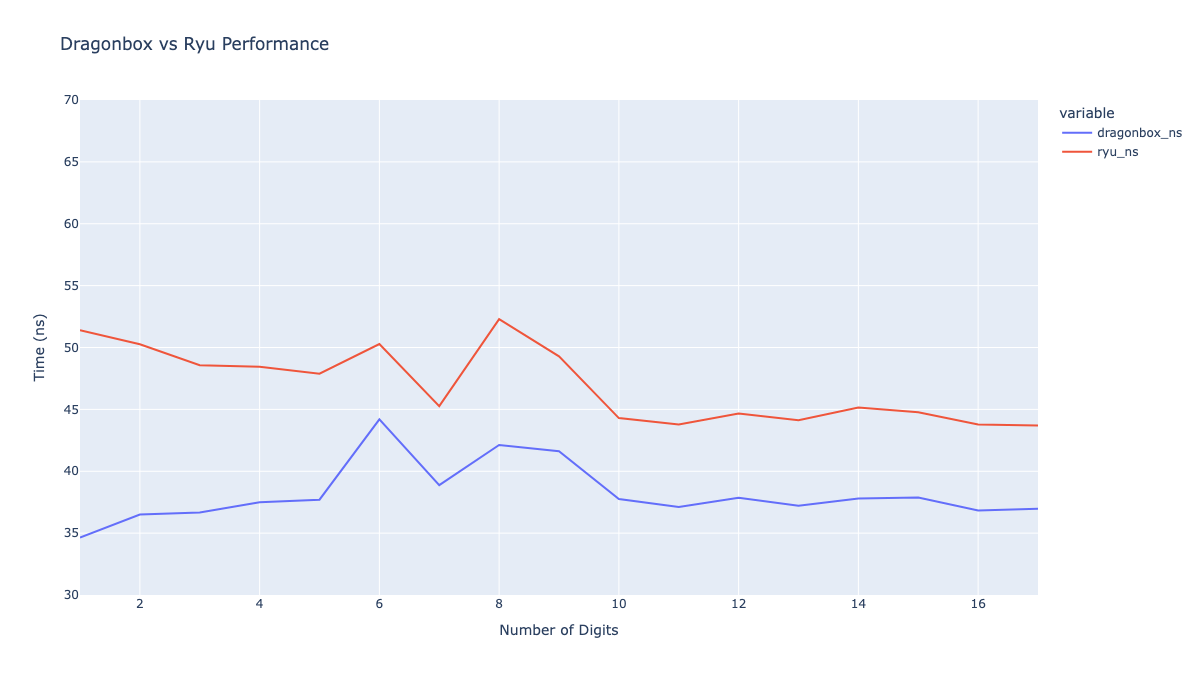
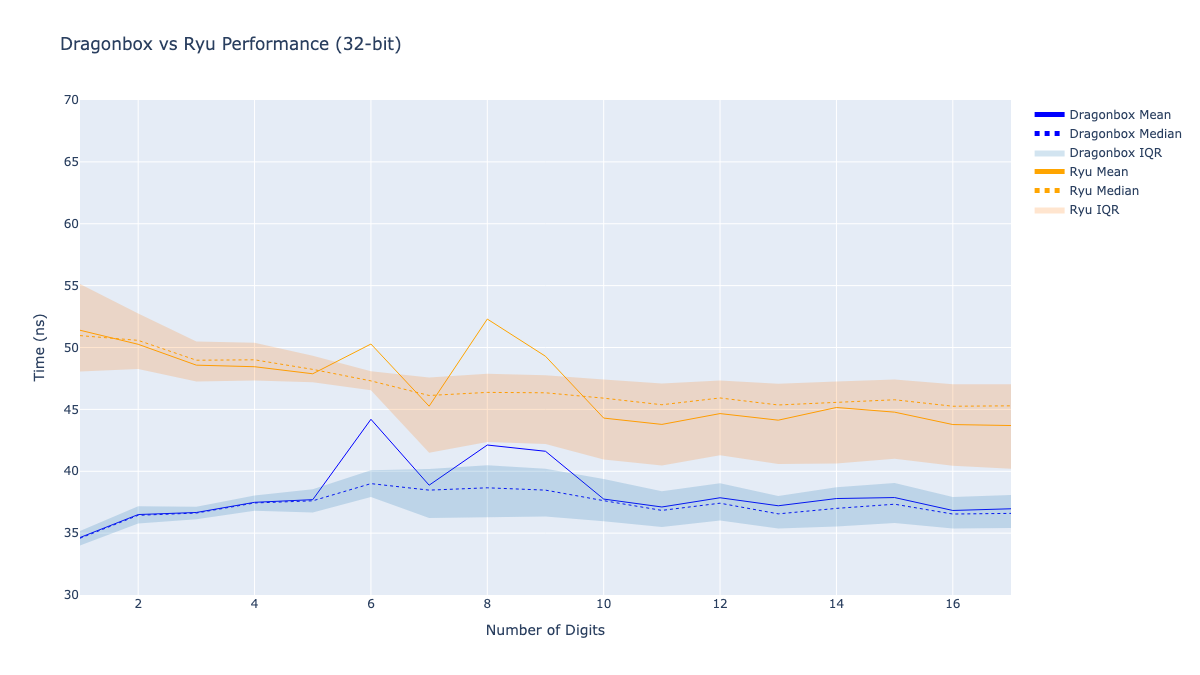
Add median and IQR

diff --git a/src/bench/plot.py b/src/bench/plot.py
@@ -1,39 +1,129 @@
-import sys
-
 import pandas as pd
-import plotly.express as px
+import plotly.graph_objects as go
 
 for bit_size in [32, 64]:
-    csv_file = f"random_bits{bit_size}.csv" 
+    csv_file = f"random_bits{bit_size}.csv"
     output_file = f"random_bits{bit_size}.png"
+    columns = ["bits", "dragonbox_ns", "ryu_ns"]
 
     df = pd.read_csv(csv_file)
-    fig = px.scatter(
-        df,
-        x="bits",
-        y=["dragonbox_ns", "ryu_ns"],
-        labels={"value": "Time (ns)", "bits": "Bit Patterns"},
-        title="Dragonbox vs Ryu Performance"
+
+    fig = go.Figure()
+    fig.add_trace(go.Scatter(
+        x=df["bits"],
+        y=df["dragonbox_ns"],
+        mode='markers',
+        marker=dict(size=1, opacity=0.5),
+        name="Dragonbox",
+    ))
+    fig.add_trace(go.Scatter(
+        x=df["bits"],
+        y=df["ryu_ns"],
+        mode='markers',
+        marker=dict(size=1, opacity=0.5),
+        name="Ryu",
+    ))
+
+    mean = df.mean()
+    median = df.median()
+    std = df.std()
+
+    text = ""
+    text += "dragonbox:<br>"
+    text += f"mean={mean['dragonbox_ns']:.2f} median={median['dragonbox_ns']:.2f} std={std['dragonbox_ns']:.2f}"
+    text += "<br>"
+    text += "ryu:<br>"
+    text += f"mean={mean['ryu_ns']:.2f} median={median['ryu_ns']:.2f} std={std['ryu_ns']:.2f}"
+
+    fig.add_annotation(
+        text=text,
+        x=0.01, y=0.99, # top left
+        xref="paper", yref="paper",
+        showarrow=False,
+        align="left",
+        font=dict(size=11),
+        bordercolor="black",
+        borderwidth=1,
+        borderpad=6,
+        bgcolor="white",
     )
 
-    fig.update_traces(marker=dict(size=1, opacity=0.5))
-    fig.update_yaxes(range=[30, 70])
+    fig.update_layout(
+        title=f"Dragonbox vs Ryu Performance ({bit_size}-bit)",
+        xaxis_title="Bit Patterns",
+        yaxis_title="Time (ns)",
+        legend=dict(itemsizing="constant"),
+        yaxis=dict(range=[30, 70])
+    )
     fig.write_image(output_file, width=1200, height=675)
 
 for bit_size in [32, 64]:
-    csv_file = f"random_digits{bit_size}.csv" 
+    csv_file = f"random_digits{bit_size}.csv"
     output_file = f"random_digits{bit_size}.png"
 
     df = pd.read_csv(csv_file)
-    df = df.groupby("digits").mean().reset_index()
-    fig = px.line(
-        df,
-        x="digits",
-        y=["dragonbox_ns", "ryu_ns"],
-        labels={"value": "Time (ns)", "digits": "Number of Digits"},
-        title="Dragonbox vs Ryu Performance"
-    )
 
-    fig.update_traces(line=dict(width=2))
-    fig.update_yaxes(range=[30, 70])
+    mean = df.groupby("digits").mean().reset_index()
+    median = df.groupby("digits").median().reset_index()
+    q25 = df.groupby("digits").quantile(0.25).reset_index()
+    q75 = df.groupby("digits").quantile(0.75).reset_index()
+
+    fig = go.Figure()
+    fig.add_trace(go.Scatter(
+        x=mean["digits"],
+        y=mean["dragonbox_ns"],
+        mode="lines",
+        name="Dragonbox Mean",
+        line=dict(color="blue", width=1),
+    ))
+    fig.add_trace(go.Scatter(
+        x=median["digits"],
+        y=median["dragonbox_ns"],
+        mode="lines",
+        name="Dragonbox Median",
+        line=dict(color="blue", dash="dot", width=1),
+    ))
+    fig.add_trace(go.Scatter(
+        # reverse q75 to create polygon
+        x=pd.concat([q25["digits"], q75["digits"][::-1]]),
+        y=pd.concat([q25["dragonbox_ns"], q75["dragonbox_ns"][::-1]]),
+        fill="toself",
+        fillcolor="rgba(31,119,180,0.2)", # blue
+        line=dict(color="rgba(255,255,255,0)"), # transparent
+        name="Dragonbox IQR",
+        showlegend=True,
+    ))
+
+    fig.add_trace(go.Scatter(
+        x=mean["digits"],
+        y=mean["ryu_ns"],
+        mode="lines",
+        name="Ryu Mean",
+        line=dict(color="orange", width=1),
+    ))
+    fig.add_trace(go.Scatter(
+        x=median["digits"],
+        y=median["ryu_ns"],
+        mode="lines",
+        name="Ryu Median",
+        line=dict(color="orange", dash="dot", width=1),
+    ))
+    fig.add_trace(go.Scatter(
+        # reverse q75 to create polygon
+        x=pd.concat([q25["digits"], q75["digits"][::-1]]),
+        y=pd.concat([q25["ryu_ns"], q75["ryu_ns"][::-1]]),
+        fill="toself",
+        fillcolor="rgba(255, 127, 14, 0.2)", # orange
+        line=dict(color="rgba(255, 255, 255, 0)"), # transparent
+        name="Ryu IQR",
+        showlegend=True,
+    ))
+
+    fig.update_layout(
+        title=f"Dragonbox vs Ryu Performance ({bit_size}-bit)",
+        xaxis_title="Number of Digits",
+        yaxis_title="Time (ns)",
+        legend=dict(itemsizing="constant"),
+        yaxis=dict(range=[30, 70])
+    )
     fig.write_image(output_file, width=1200, height=675)
